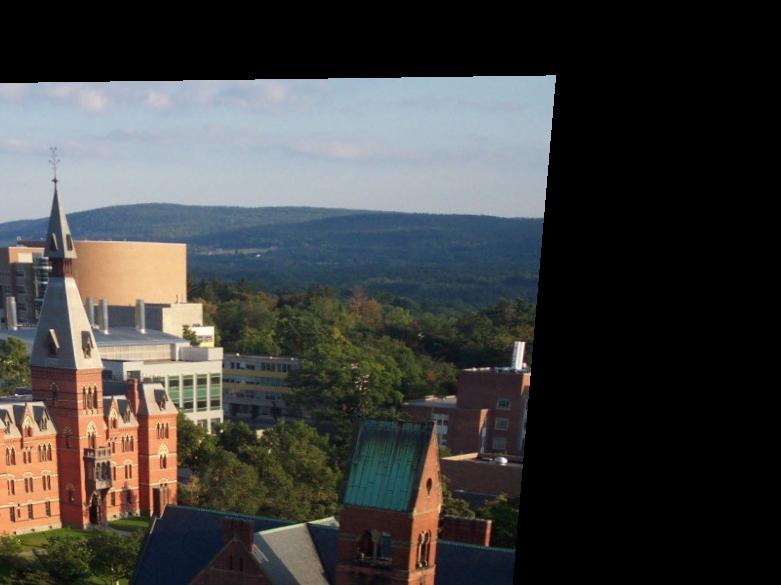
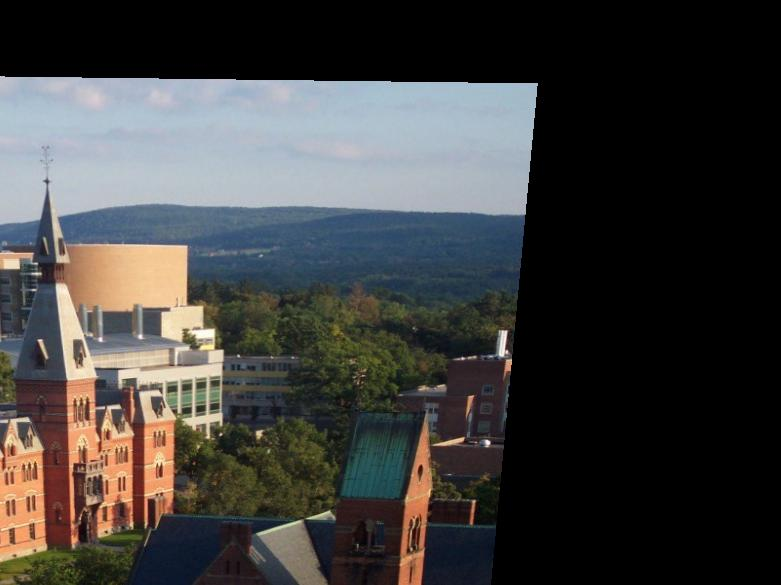
stitching(rough draft) commit

Changed region(s): [[0.0, 0.1231, 0.7375, 1.0], [0.0, 0.1231, 0.2151, 0.1538]]

diff --git a/a2.py b/a2.py
@@ -10,13 +10,8 @@ from scipy.cluster.hierarchy import dendrogram
 import os
 import glob
 
-#Code for matching part is from: https://docs.opencv.org/4.x/dc/dc3/tutorial_py_matcher.html
-#(specifically Brute-Force Matching with SIFT Descriptors and Ratio Test with ORB instead of SIFT)
-
 def part1_function(images,arr,k):
-    #filename1=sys.argv[4]
-    #filename2=sys.argv[5]
-    #print(sys.argv)
+    
 
     #create dictionary to store the image tuples in
     points_dictionary={}
@@ -68,17 +63,7 @@ def part1_function(images,arr,k):
 
     print(number_of_matches_matrix)
 
-    #https://scikit-learn.org/stable/modules/generated/sklearn.cluster.AgglomerativeClustering.html
-
-    #Perform clustering twice
-    #clustering = AgglomerativeClustering(n_clusters=k,affinity='cosine',linkage='complete').fit(number_of_matches_matrix).labels_
-    #clustering = AgglomerativeClustering(n_clusters=k,affinity='euclidean',linkage='complete').fit(number_of_matches_matrix).labels_
-    #z= zip(arr,clustering)
-    #new_list=list(z)
-
-
     clustering = AgglomerativeClustering(n_clusters=k,affinity='cosine',linkage='complete').fit(number_of_matches_matrix).labels_
-    #clustering = AgglomerativeClustering(n_clusters=k,affinity='euclidean',linkage='complete').fit(number_of_matches_matrix).labels_
 
     z= zip(arr,clustering)        
     new_list=list(z)
@@ -296,7 +281,71 @@ def transform(n,img1_p1,img1_p2,img1_p3,img1_p4,img2_p1,img2_p2,img2_p3 ,img2_p4
         return matrix
 
 def letsStitch(image1,image2,bestTransMat,invTransMat):
-    pass
+    image2_h, image2_w, image2_ch = image2.shape
+    print(image2_h, image2_w, image2_ch)
+
+    # Top-Left Corner
+    pt1  = np.array([0,0,1])
+    pt1_ = np.dot(invTransMat,pt1)
+    pt1_ = pt1_/pt1_[2]
+    
+    # Top-Right Corner
+    pt2  = np.array([0,image2_h-1,1])
+    pt2_ = np.dot(invTransMat,pt2)
+    pt2_ = pt2_/pt2_[2]
+    
+    # Bottom-Left Corner
+    pt3  = np.array([image2_w-1,0,1])
+    pt3_ = np.dot(invTransMat,pt3)
+    pt3_ = pt3_/pt3_[2]
+
+    # Bottom-Right Corner
+    pt4  = np.array([image2_w-1,image2_h-1,1])
+    pt4_ = np.dot(invTransMat,pt4)
+    pt4_ = pt4_/pt4_[2]
+
+    # Calculate new width
+    # To determine the new size of the stitched image, we have to add the values from
+    # image2 corners that fall outside of image1's width and height.
+    image1_h, image1_w, image1_ch = image1.shape
+
+    # Added 0 when finding the minimum values, because if image2 corners fall within image1's size, then padding is 0
+    min_x = np.round(min(0, pt1_[0], pt2_[0], pt3_[0], pt4_[0])).astype(int)    # The offset for x when adding stitched values of image2
+    min_y = np.round(min(0, pt1_[1], pt2_[1], pt3_[1], pt4_[1])).astype(int)    # The offset for y when adding stitched values of image2
+    offset_x = np.abs(min_x)   # This is the padding added to the right of image1's width (offset of x)
+    offset_y = np.abs(min_y)   # This is the padding added to the top of image1's height (offset of y)
+
+    # I added image1's height and width when finding the maximum value of image2's projected corners
+    # so the padding will be 0 if image2's corners fall within image1's height and width
+    max_x = np.round(max(image1_w, pt1_[0], pt2_[0], pt3_[0], pt4_[0])).astype(int)
+    max_y = np.round(max(image1_h, pt1_[1], pt2_[1], pt3_[1], pt4_[1])).astype(int)
+
+    # To find the padding values for the left and bottom of image1, we only want to find the offset to pad it with, so we
+    # subtract the maximum x and y values found from projecting image2's corners with image1's height and width respectively
+    new_width = offset_x + image1_w + np.abs(image1_w-max_x)
+    new_height = offset_y + image1_h + np.abs(image1_h-max_y)
+
+    stitched_image = np.zeros((new_height, new_width, 3))
+
+    for y in range(image1_h):
+        for x in range(image1_w):
+            # The offset for x is the min_x value we calculated earlier, and likewise for y
+            stitched_image[y+offset_y, x+offset_x] = image1[y, x]
+    
+    stitched_image_h, stitched_image_w, c = stitched_image.shape
+
+    print("\tTransferring pixels from the second image to the stitched image")
+    for y in range(min_y, stitched_image_h):
+        for x in range(min_x, stitched_image_w):
+            if y+offset_y < stitched_image_h and x+offset_x < stitched_image_w:
+                pt  = np.array([x,y,1])
+                pt_ = np.dot(bestTransMat,pt)
+                pt_ = pt_/pt_[2]
+                if 0 < pt_[0] < image2_w and 0 < pt_[1] < image2_h:
+                    pixel = cv2.getRectSubPix(image2, (1, 1), (pt_[0], pt_[1]))
+                    stitched_image[y+offset_y, x+offset_x] = pixel
+    
+    return stitched_image
 
 
 
@@ -306,24 +355,10 @@ if __name__=="__main__":
         print("starting Part 1:")
         images ={}
         arr=[]
-        print("path")
-        print(sys.argv[3])
-        #path_len=len(sys.argv[3])
-        #path_here=sys.argv[3][:path_len-5]
-        #print(path_here)
-        #print(glob.glob(sys.argv[3]))
-        path_here=sys.argv[3].split("/",1)[0]
-        #print(sys.argv[3].split("/",1)[1])
-        #print(path_here)
-        path_here=path_here+"/*."+sys.argv[3][-3:]
-        print(path_here)
-        #for file in glob.glob(sys.argv[3]):
-        for file in glob.glob(path_here):
+        for file in glob.glob(sys.argv[3]):
             images[os.path.basename(file)]=cv2.imread(file)
             arr.append(os.path.basename(file))
         k = int(sys.argv[2])
-        #print(images)
-        #print(arr)
         part1_function(images,arr,k)
 
 
@@ -407,7 +442,7 @@ if __name__=="__main__":
                 #print("pt_",pt_)
                 #print("pt2",pt2)
                 #find euclidean distance between the transformed point and the actual point from the descriptor
-                if np.sqrt(np.sum((pt_-pt2)**2)) < 0.5:
+                if np.sqrt(np.sum((pt_-pt2)**2)) < 0.7:
                     inliers += 1
             print(inliers)
             if inliers > max_inliers:
@@ -423,4 +458,5 @@ if __name__=="__main__":
         transformed_image.save("lets-see.jpg")
 
         #We need the best transformation matrix and the inv transformation matrix.
-        stitched_img=letsStitch(image_name1,image_name2,best_transformation,inverse_tm)
+        stitched_img=letsStitch(image1,image2,best_transformation,inverse_tm)
+        cv2.imwrite('stitched.jpg', stitched_img)
